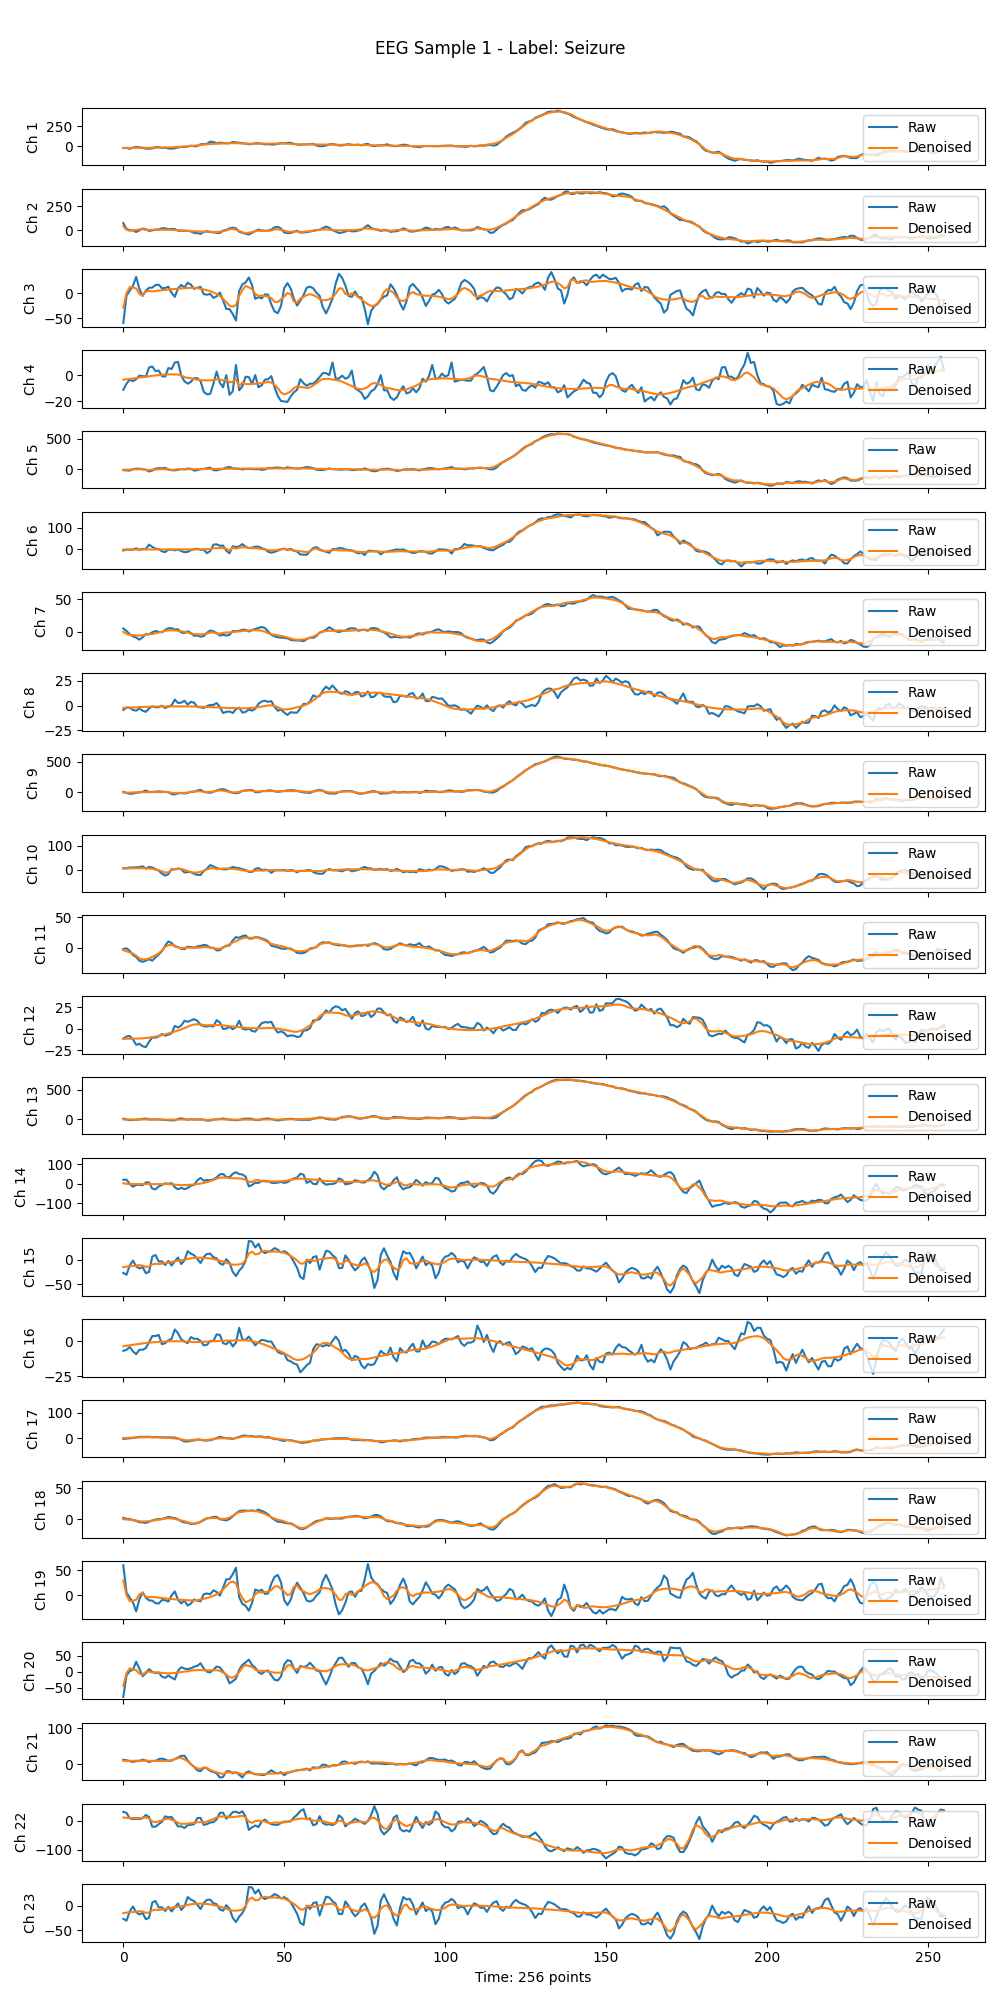
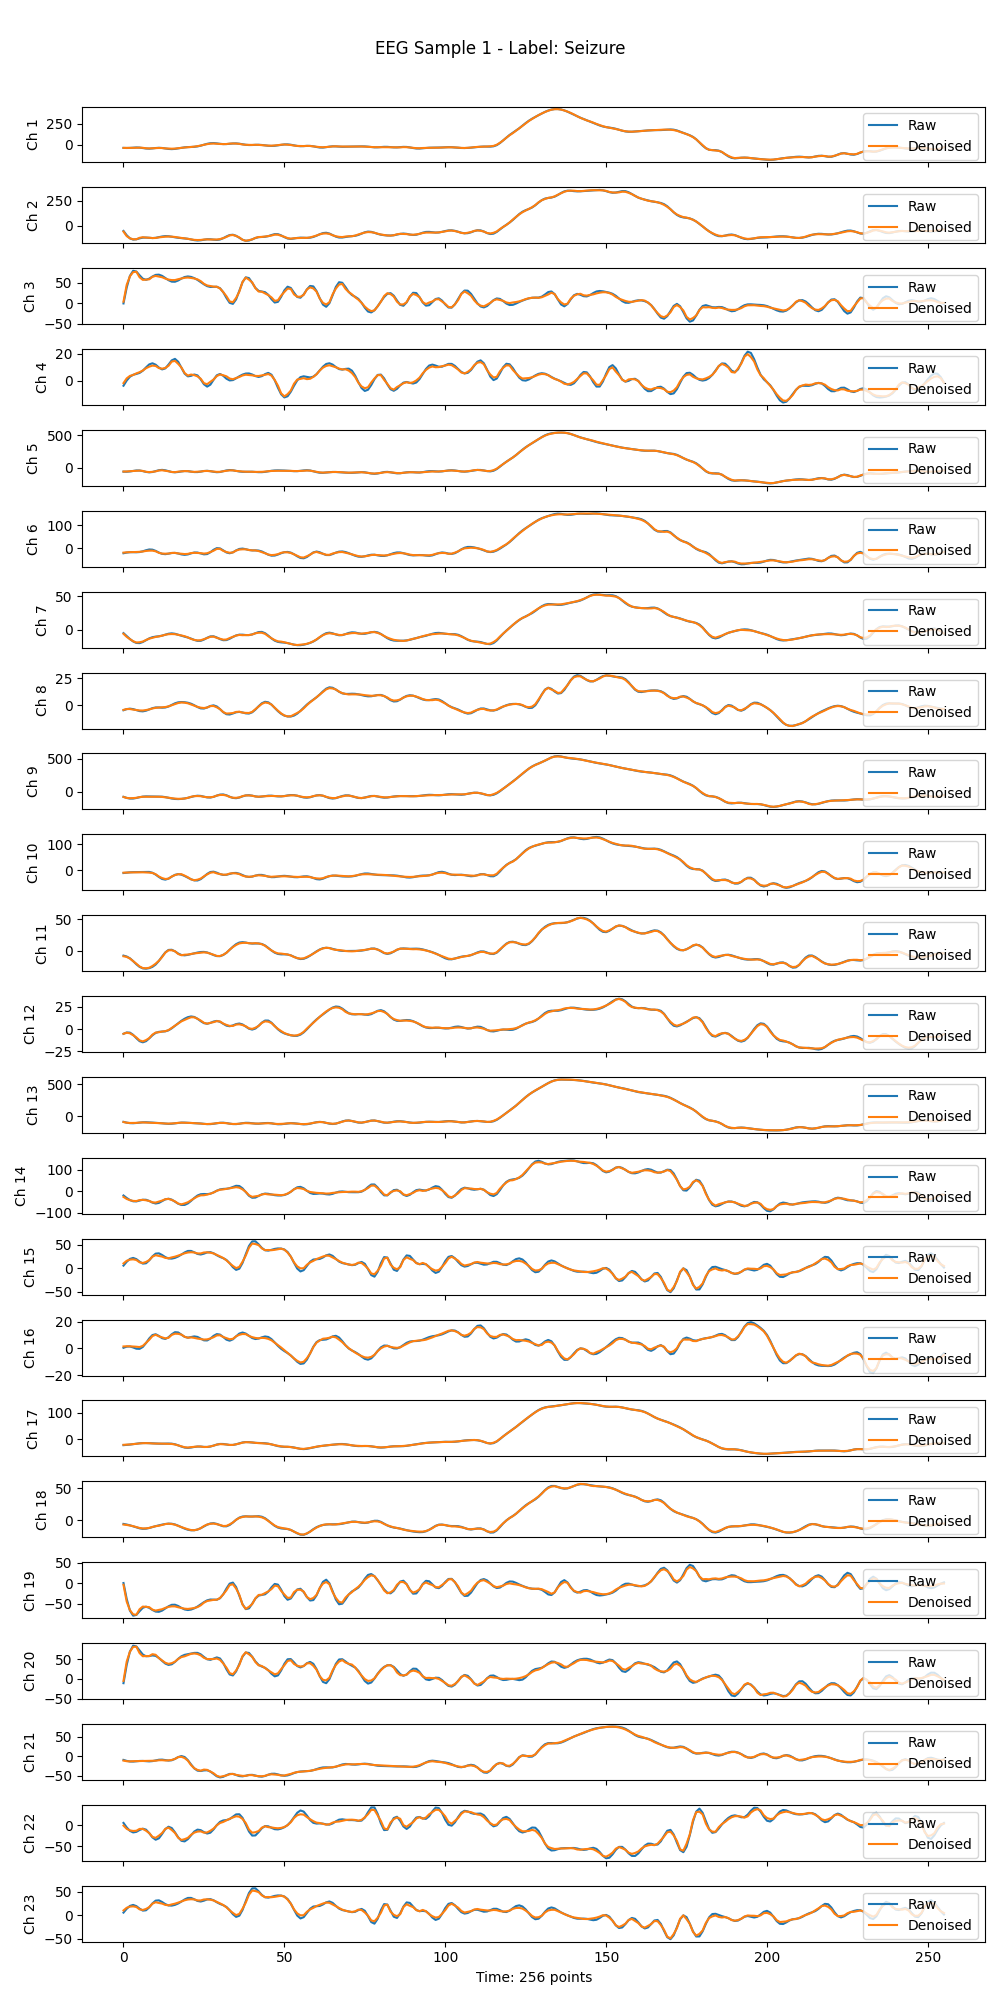
Added Standardized & Standardized + Denoised Data

diff --git a/data_cleaning.py b/data_cleaning.py
@@ -10,7 +10,7 @@ from sklearn.preprocessing import StandardScaler
 ########## Loading the datasets ##########
 # Load the training dataset 
 train_data = np.load('data/eeg-predictive_train.npz')
-print(train_data.files) # Check the keys in the npz file
+# print(train_data.files) # Check the keys in the npz file
 X_train = train_data['train_signals']
 y_train = train_data['train_labels']
 
@@ -43,9 +43,9 @@ print("Balanced validation labels:", np.unique(y_val, return_counts=True))
 seizure_percent_val = np.sum(y_val == 1) / len(y_val) * 100
 print('% Seizure in the bal.validation set:', seizure_percent_val, '%') # 22.44%
 
-'''
-
 ########## Visualizing the data ##########
+
+'''
 # Visualize the first five samples in the training set 
 for i in range(5):
     sample_signal = X_train[i]
@@ -73,6 +73,7 @@ for i in range(5):
     plt.savefig(f"eeg_graphs/sample_{i+1}.png")
     #plt.show()
     plt.close()
+'''
 
 ########## Noise removal using bandpass filter ##########
 def bandpass_filter(data, lowcut, highcut, fs, order=4):
@@ -93,20 +94,7 @@ X_train = bandpass_filter(X_train, lowcut=0.5, highcut=40, fs=256)
 X_val = bandpass_filter(X_val, lowcut=0.5, highcut=40, fs=256)
 X_val_bal = bandpass_filter(X_val_bal, lowcut=0.5, highcut=40, fs=256)
 
-'''
-
 ########## Artifacts removal ##########
-
-# This is a helper function to avoid invalid true-divide of soft thresholding.
-# I do not like ValueError, this really shouldn't be here, very unhealthy, but let it be now.
-def safe_soft_threshold(coeff):
-    m_coeff = []
-    for c in coeff:
-        if c == 0:
-            m_coeff.append(1e-8)
-        else:
-            m_coeff.append(c)
-    return m_coeff
 
 # This function uses PyWavelets to remove artifacts.
 # Level - Range: [1, max_level], Meaning: differentiate approximation and detail of wavelets
@@ -120,6 +108,9 @@ def wavelet_denoise(data, level=None, mode='soft'):
     # db4 being the best time/frequency cutoff for EEG signals
     wavelet = "db4"
 
+    if np.std(data) < 1e-4:
+        return data.copy()
+    
     if level is None:
         # will use the maximal level if level is None (default)
         level = pywt.dwt_max_level(len(data), pywt.Wavelet(wavelet).dec_len)
@@ -133,15 +124,20 @@ def wavelet_denoise(data, level=None, mode='soft'):
 
     # Median Absolute Deviation method:
     # using the highest layer of coeffs (represent high frequency, usually noises)
-    sigma = np.median(np.abs(coeffs[-1])) / 0.6745
+    detail_coeffs = coeffs[-1]
+    sigma = np.median(np.abs(detail_coeffs)) / 0.6745
     # Remove coeffs of what likely to be random noises
+
+    if np.isclose(sigma, 0):
+        return data.copy()
+
     universal_threshold = sigma * np.sqrt(2 * np.log(len(data)))
 
     # coeffs[0] are the ones that describe the most general pattern
     coeffs_thresh = [coeffs[0]]
+
     for i in range(1, len(coeffs)):
-        # perform soft thresholding
-        coeffs_thresh.append(pywt.threshold(safe_soft_threshold(coeffs[i]), value=universal_threshold, mode=mode))
+        coeffs_thresh.append(pywt.threshold(coeffs[i], value=universal_threshold, mode=mode))
     
     # Multileverl reconstruct EEG signals
     return pywt.waverec(coeffs_thresh, wavelet)
@@ -184,12 +180,6 @@ for i in range(5):
     plt.savefig(f"eeg_denoised_graphs/sample_{i+1}.png")
     plt.close()
 
-########## Upweighting ##########
-# I move this part after artifacts and noise removal because it makes sense to clean the data first 
-
-# Changed from downsampling -> upweighting as it avoids the challenges of insufficient data;
-# yet ensured balanced data.
-
 ########## Normalization ##########
 
 # 2D flatten the training data to (8282, 23*256)
@@ -211,6 +201,7 @@ X_val_bal_final = X_val_bal_scaled.reshape(X_val_bal.shape)
 
 ########## Saving Data ##########
 
+# This is the ONLY normalized one
 np.savez_compressed(
     'processed_eeg_data.npz',
     X_train=X_train_final,
@@ -218,3 +209,13 @@ np.savez_compressed(
     y_train=y_train,
     y_val=y_val_bal
 )
+
+# This is the denoised + normalized one
+np.savez_compressed(
+    'denoised_eeg_data.npz',
+    X_train=denoise(X_train_final),
+    X_val=denoise(X_val_bal_final),
+    y_train=y_train,
+    y_val=y_val_bal
+)
+
